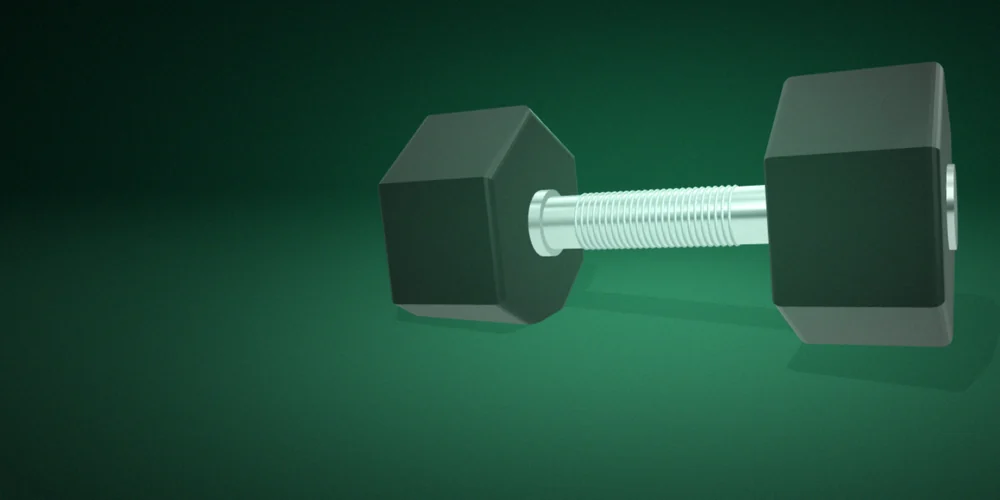
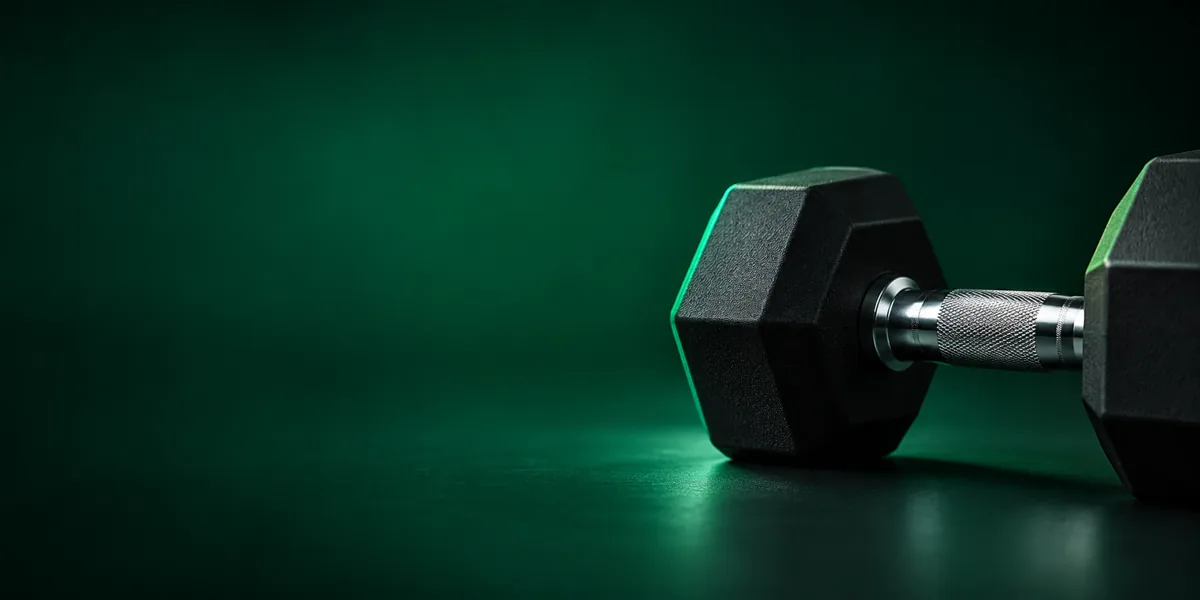
Treino: foto do haltere no topo
Claude-Session: https://claude.ai/code/session_01FEhkyHKB16ckUhSHJXsEnQ

diff --git a/src/style.css b/src/style.css
@@ -242,7 +242,7 @@ body.sem-rolagem { overflow: hidden; }
 .tr-cab h1 { flex: 1; font-size: 22px; margin: 0; overflow: hidden; text-overflow: ellipsis; white-space: nowrap; }
 
 /* início */
-.tr-hero { position: relative; overflow: hidden; display: flex; align-items: flex-end; gap: 12px; padding: 20px 18px 18px; border-radius: 22px; color: #fff; min-height: 150px; background: linear-gradient(90deg, rgba(4,36,25,.92) 0%, rgba(4,36,25,.7) 42%, rgba(4,36,25,0) 75%), url('/treino-hero.webp') 75% 40% / cover no-repeat, #06291d; box-shadow: 0 10px 28px rgba(6,41,29,.25); }
+.tr-hero { position: relative; overflow: hidden; display: flex; align-items: flex-end; gap: 12px; padding: 20px 18px 18px; border-radius: 22px; color: #fff; min-height: 150px; background: linear-gradient(90deg, rgba(4,36,25,.55) 0%, rgba(4,36,25,.25) 45%, rgba(4,36,25,0) 70%), url('/treino-hero.webp') 85% 50% / cover no-repeat, #06291d; box-shadow: 0 10px 28px rgba(6,41,29,.25); }
 .tr-hero-txt { display: flex; flex-direction: column; gap: 6px; flex: 1; position: relative; z-index: 1; }
 .tr-hero-sobre { font-size: 13px; font-weight: 600; opacity: .85; }
 .tr-hero-tit { font-size: 24px; font-weight: 800; letter-spacing: -0.02em; }

diff --git a/index.html b/index.html
@@ -13,7 +13,7 @@
     })();
   </script>
   <title>Arca</title>
-  <!-- versão: 2026-10-27b -->
+  <!-- versão: 2026-11-12a -->
   <link rel="icon" href="/icons/icon.svg" type="image/svg+xml">
   <link rel="apple-touch-icon" href="/icons/apple-touch-icon.png">
   <link rel="preconnect" href="https://fonts.googleapis.com">
